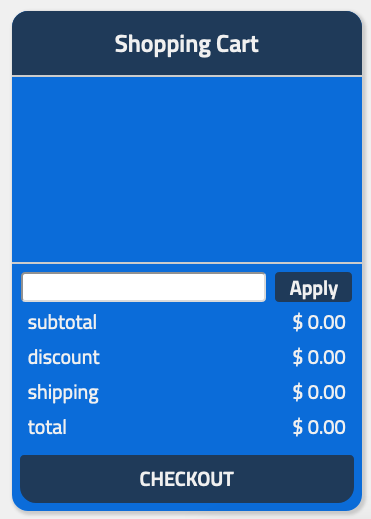
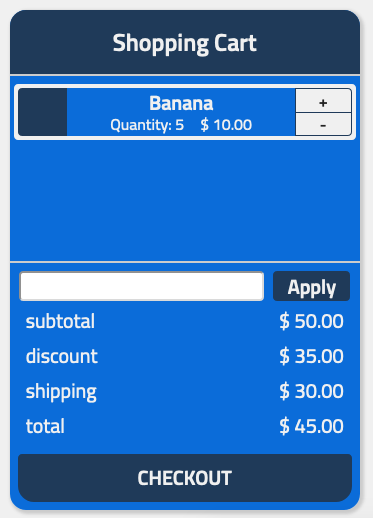
inconsistent discount code hotfix

diff --git a/src/context/ShoppingCartContext.tsx b/src/context/ShoppingCartContext.tsx
@@ -102,8 +102,13 @@ export const ShoppingCartProvider = ({ children }: ShoppingCartProviderProps) =>
         orders.map((order) => {
             newSubtotal += order.price * order.quantity
         })
+        console.log('fjerjpewrkf', newSubtotal, discount, activeVoucher)
         if (activeVoucher && activeVoucher.type === 'percentual') {
-            setDiscount(newSubtotal - (newSubtotal * (activeVoucher.amount / 100)));
+
+            const newDiscount = newSubtotal * activeVoucher.amount / 100;
+            // const newDiscount = newSubtotal - (newSubtotal * (activeVoucher.amount / 100));
+            console.log('new subtotal', discount, newSubtotal, newDiscount, subtotal)
+            setDiscount(newDiscount);
             console.log('discount in updatesubtotal', discount);
         }
         setSubtotal(newSubtotal);
@@ -171,7 +176,7 @@ export const ShoppingCartProvider = ({ children }: ShoppingCartProviderProps) =>
     useEffect(() => {
         updateWeightOfPurchase();
         updateSubtotal();
-    }, [orders, products, discount]);
+    }, [orders, products, discount, activeVoucher]);
 
     useEffect(() => {
         updateShippingPrice();
